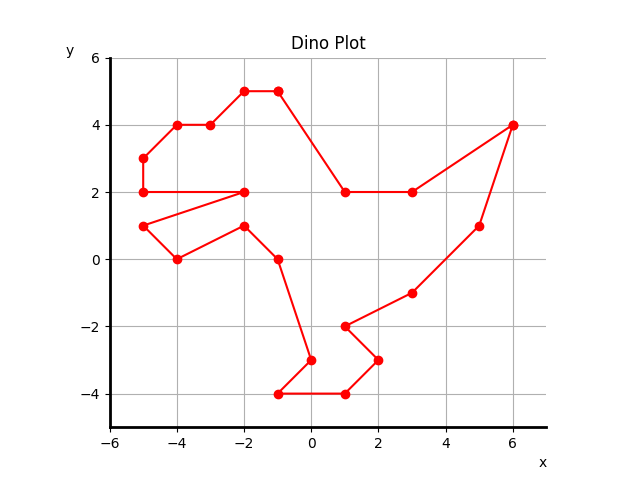
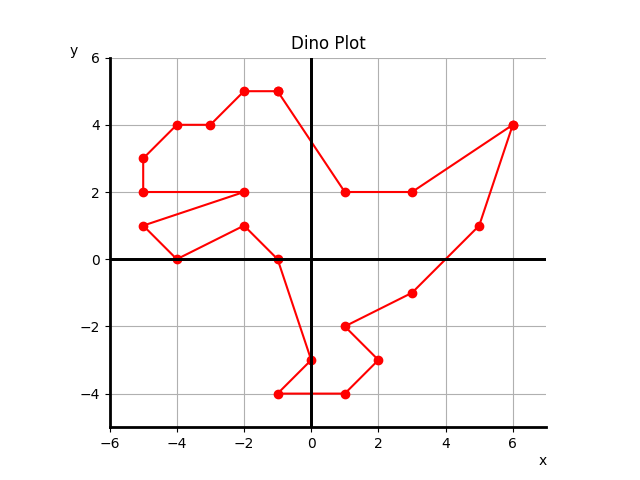
feat: add origin marker spines

Changed region(s): [[0.1875, 0.125, 0.8438, 0.875], [0.8438, 0.9375, 0.875, 0.9688], [0.0938, 0.0938, 0.125, 0.125]]

diff --git a/dino.py b/dino.py
@@ -1,5 +1,7 @@
 import matplotlib.pyplot as plt
 import numpy as np
+import matplotlib.spines as msp
+import matplotlib.path as mpath
 
 dino_vectors = [
     np.array([6, 4]),
@@ -37,6 +39,18 @@ ax.spines['right'].set_visible(False)
 ax.spines['left'].set_linewidth(2)
 ax.spines['bottom'].set_linewidth(2)
 
+
+origin_x_spine = msp.Spine(ax, 'bottom', mpath.Path([[0.0,0.0], [1.0, 0.0]])) 
+origin_x_spine.set_linewidth(2)
+ax.spines['origin_x'] = origin_x_spine
+ax.add_patch(origin_x_spine)
+
+origin_y_spine = msp.Spine(ax, 'left', mpath.Path([[0.0,0.0], [0.0, 0.0]])) 
+origin_y_spine.set_linewidth(2)
+ax.spines['origin_y'] = origin_y_spine
+ax.add_patch(origin_y_spine)
+
+
 min_x = min(dino_x) if dino_x else -6
 min_y = min(dino_y) if dino_y else -6
 max_x = max(dino_x) if dino_x else 6
@@ -46,9 +60,10 @@ padding = 1
 ax.set_xlim((min_x - padding, max_x + padding))
 ax.set_ylim((min_y - padding, max_y + padding))
 
-ax.set_xlabel('x', loc='right')
-ax.set_ylabel('y', loc='top', rotation=0)
-
+ax.set_xlabel('x', loc='right', labelpad=2)
+ax.set_ylabel('y', loc='top', rotation=0, labelpad=1)
+ax.xaxis.set_ticks_position('bottom')
+ax.yaxis.set_ticks_position('left')
 
 ax.plot(dino_x, dino_y, 'ro-')
 
